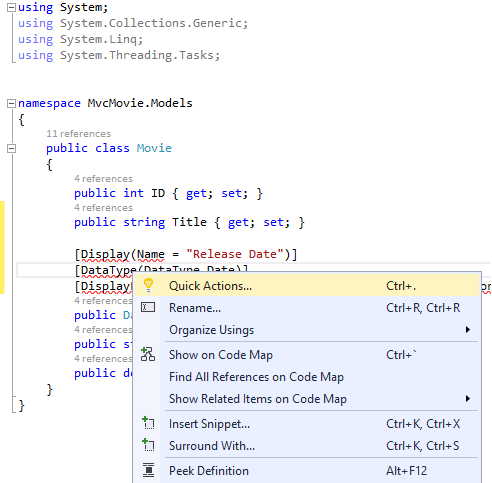
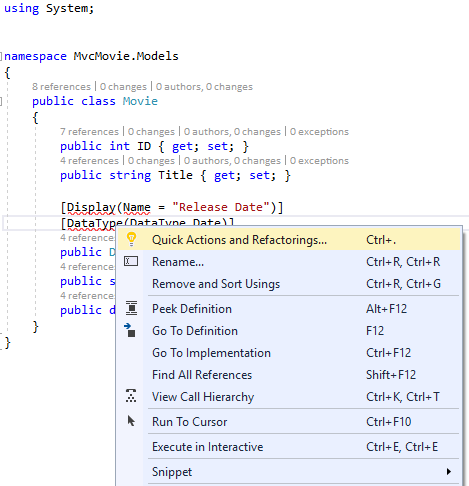
controller methods and views

Changed region(s): [[0.0, 0.1553, 1.0, 1.0], [0.0, 0.0, 0.5075, 0.1553], [0.0597, 0.6522, 0.0896, 0.6832]]

diff --git a/aspnetcore/tutorials/first-mvc-app/start-mvc/sample/MvcMovie/Views/Shared/edit_view_source.html b/aspnetcore/tutorials/first-mvc-app/start-mvc/sample/MvcMovie/Views/Shared/edit_view_source.html
@@ -1,0 +1,29 @@
+<form action="/Movies/Edit/7" method="post">
+    <div class="form-horizontal">
+        <h4>Movie</h4>
+        <hr />
+        <div class="text-danger" />
+        <input type="hidden" data-val="true" data-val-required="The ID field is required." id="ID" name="ID" value="7" />
+        <div class="form-group">
+            <label class="control-label col-md-2" for="Genre" />
+            <div class="col-md-10">
+                <input class="form-control" type="text" id="Genre" name="Genre" value="Western" />
+                <span class="text-danger field-validation-valid" data-valmsg-for="Genre" data-valmsg-replace="true"></span>
+            </div>
+        </div>
+        <div class="form-group">
+            <label class="control-label col-md-2" for="Price" />
+            <div class="col-md-10">
+                <input class="form-control" type="text" data-val="true" data-val-number="The field Price must be a number." data-val-required="The Price field is required." id="Price" name="Price" value="3.99" />
+                <span class="text-danger field-validation-valid" data-valmsg-for="Price" data-valmsg-replace="true"></span>
+            </div>
+        </div>
+        <!-- Markup removed for brevity -->
+        <div class="form-group">
+            <div class="col-md-offset-2 col-md-10">
+                <input type="submit" value="Save" class="btn btn-default" />
+            </div>
+        </div>
+    </div>
+    <input name="__RequestVerificationToken" type="hidden" value="CfDJ8Inyxgp63fRFqUePGvuI5jGZsloJu1L7X9le1gy7NCIlSduCRx9jDQClrV9pOTTmqUyXnJBXhmrjcUVDJyDUMm7-MF_9rK8aAZdRdlOri7FmKVkRe_2v5LIHGKFcTjPrWPYnc9AdSbomkiOSaTEg7RU" />
+</form>

diff --git a/aspnetcore/tutorials/first-mvc-app/start-mvc/sample/MvcMovie/Controllers/MC1.cs b/aspnetcore/tutorials/first-mvc-app/start-mvc/sample/MvcMovie/Controllers/MC1.cs
@@ -11,7 +11,7 @@ using MvcMovie.Models;
 
 namespace MvcMovie.Controllers
 {
-    #region snippet_1
+#region snippet_1
     public class MoviesController : Controller
     {
         private readonly MvcMovieContext _context;
@@ -20,14 +20,14 @@ namespace MvcMovie.Controllers
         {
             _context = context;
         }
-        #endregion
-        #region snippet_index
+#endregion
+#region snippet_index
         // GET: Movies
         public async Task<IActionResult> Index()
         {
             return View(await _context.Movie.ToListAsync());
         }
-        #endregion
+#endregion
 
         // GET: Movies/Details/5
         public async Task<IActionResult> Details(int? id)
@@ -69,6 +69,7 @@ namespace MvcMovie.Controllers
             return View(movie);
         }
 
+#region snippet_edit1
         // GET: Movies/Edit/5
         public async Task<IActionResult> Edit(int? id)
         {
@@ -84,7 +85,8 @@ namespace MvcMovie.Controllers
             }
             return View(movie);
         }
-
+#endregion
+#region snippet_edit2
         // POST: Movies/Edit/5
         // To protect from overposting attacks, please enable the specific properties you want to bind to, for 
         // more details see http://go.microsoft.com/fwlink/?LinkId=317598.
@@ -119,7 +121,7 @@ namespace MvcMovie.Controllers
             }
             return View(movie);
         }
-
+#endregion
         // GET: Movies/Delete/5
         public async Task<IActionResult> Delete(int? id)
         {

diff --git a/aspnetcore/tutorials/first-mvc-app/start-mvc/sample/MvcMovie/Models/MovieNoEF.cs b/aspnetcore/tutorials/first-mvc-app/start-mvc/sample/MvcMovie/Models/MovieNoEF.cs
@@ -1,4 +1,4 @@
-#define MovieNoEF
+//#define MovieNoEF
 #if MovieNoEF
 #region snippet_1
 using System;

diff --git a/aspnetcore/tutorials/first-mvc-app/start-mvc/sample/MvcMovie/Models/MovieDate.cs b/aspnetcore/tutorials/first-mvc-app/start-mvc/sample/MvcMovie/Models/MovieDate.cs
@@ -1,4 +1,4 @@
-//#define AddDate 
+#define AddDate 
 #if AddDate
 #region snippet_1
 using System;

diff --git a/aspnetcore/tutorials/first-mvc-app/start-mvc/sample2/src/MvcMovie/Models/Class.cs b/aspnetcore/tutorials/first-mvc-app/start-mvc/sample2/src/MvcMovie/Models/Class.cs
@@ -1,0 +1,7 @@
+namespace MvcMovie.Models
+{
+    public class XClass
+    {
+        int x;
+    }
+}

diff --git a/aspnetcore/tutorials/first-mvc-app/controller-methods-views.md b/aspnetcore/tutorials/first-mvc-app/controller-methods-views.md
@@ -1,17 +1,18 @@
 ---
 title: Controller methods and views | Microsoft Docs
 author: rick-anderson
-description: 
+description: Working with controller methods, views and DataAnnotations
 keywords: ASP.NET Core,
 ms.author: riande
 manager: wpickett
-ms.date: 10/14/2016
+ms.date: 03/07/2017
 ms.topic: article
 ms.assetid: c7313211-b271-4adf-bab8-8e72603cc0ce
 ms.technology: aspnet
 ms.prod: aspnet-core
 uid: tutorials/first-mvc-app/controller-methods-views
 ---
+
 # Controller methods and views
 
 By [Rick Anderson](https://twitter.com/RickAndMSFT)
@@ -22,32 +23,31 @@ We have a good start to the movie app, but the presentation is not ideal. We don
 
 Open the *Models/Movie.cs* file and add the highlighted lines shown below:
 
-[!code-csharp[Main](./start-mvc/sample2/src/MvcMovie/Models/MovieDate.cs?highlight=11,12&range=4-20)]
+<!-- next update, create MovieDateWithExtraUsings that has all the using we remove
+in the next step 
+-->
+[!code-csharp[Main](start-mvc/sample/MvcMovie/Models/MovieDate.cs?name=snippet_1&highlight=11-12)]
 
-* Right click on a red squiggly line **> Quick Actions**.
+Right click on a red squiggly line **> Quick Actions and Refactorings**.
 
-  ![Contextual menu](controller-methods-views/_static/qa.png)
+  ![Contextual menu shows **> Quick Actions and Refactorings**.](controller-methods-views/_static/qa.png)
 
-  > [!Note]
-  > In Visual Studio 2017 RC 2, the menu command is **> Quick Actions and Refactorings**.
 
-* Tap `using System.ComponentModel.DataAnnotations;`
+Tap `using System.ComponentModel.DataAnnotations;`
 
-  ![Contextual menu](controller-methods-views/_static/da.png)
+  ![using System.ComponentModel.DataAnnotations at top of list](controller-methods-views/_static/da.png)
 
   Visual studio adds `using System.ComponentModel.DataAnnotations;`.
 
-Let's remove the `using` statements that are not needed. They show up by default in a light grey font. Right click anywhere in the *Movie.cs* file **> Organize Usings > Remove Unnecessary Usings**.
+Let's remove the `using` statements that are not needed. They show up by default in a light grey font. Right click anywhere in the *Movie.cs* file **> Remove and Sort Usings**.
 
-![Contextual menu](controller-methods-views/_static/rm.png)
-
-**Visual Studio 2017 RC 2 note:** This step isn't necessary. Unneeded `using` statements were automatically removed.
+![Remove and Sort Usings](controller-methods-views/_static/rm.png)
 
 The updated code:
 
-[!code-csharp[Main](./start-mvc/sample2/src/MvcMovie/Models/MovieDate.cs?highlight=11,12&range=4-20)]
+[!code-csharp[Main](./start-mvc/sample/MvcMovie/Models/MovieDate.cs?name=snippet_1)]
 
-We'll cover [DataAnnotations](http://msdn.microsoft.com/en-us/library/system.componentmodel.dataannotations.aspx) in the next tutorial. The [Display](https://msdn.microsoft.com/en-us/library/system.componentmodel.dataannotations.displayattribute.aspx) attribute specifies what to display for the name of a field (in this case "Release Date" instead of "ReleaseDate"). The [DataType](https://msdn.microsoft.com/en-us/library/system.componentmodel.dataannotations.datatypeattribute.aspx) attribute specifies the type of the data, in this case it's a date, so the time information stored in the field is not displayed.
+We'll cover [DataAnnotations](http://msdn.microsoft.com/en-us/library/system.componentmodel.dataannotations.aspx) in the next tutorial. The [Display](https://msdn.microsoft.com/en-us/library/system.componentmodel.dataannotations.displayattribute.aspx) attribute specifies what to display for the name of a field (in this case "Release Date" instead of "ReleaseDate"). The [DataType](https://msdn.microsoft.com/en-us/library/system.componentmodel.dataannotations.datatypeattribute.aspx) attribute specifies the type of the data (Date), so the time information stored in the field is not displayed.
 
 Browse to the `Movies` controller and hold the mouse pointer over an **Edit** link to see the target URL.
 
@@ -55,73 +55,71 @@ Browse to the `Movies` controller and hold the mouse pointer over an **Edit** li
 
 The **Edit**, **Details**, and **Delete** links are generated by the MVC Core Anchor Tag Helper in the *Views/Movies/Index.cshtml* file.
 
-[!code-HTML[Main](../../tutorials/first-mvc-app/start-mvc/sample2/src/MvcMovie/Views/Movies/IndexOriginal.cshtml?highlight=2,3,4&range=46-50)]
+[!code-HTML[Main](start-mvc/sample/MvcMovie/Views/Movies/IndexOriginal.cshtml?highlight=1-3&range=46-50)]
 
-[Tag Helpers](../../mvc/views/tag-helpers/intro.md) enable server-side code to participate in creating and rendering HTML elements in Razor files. In the code above, the `AnchorTagHelper` dynamically generates the HTML `href` attribute value from the controller action method and route id. You use **View Source** from your favorite browser or use the **F12** tools to examine the generated markup. The **F12** tools are shown below.
+[Tag Helpers](xref:mvc/views/tag-helpers/intro) enable server-side code to participate in creating and rendering HTML elements in Razor files. In the code above, the `AnchorTagHelper` dynamically generates the HTML `href` attribute value from the controller action method and route id. You use **View Source** from your favorite browser or use the **F12** tools to examine the generated markup. The **F12** tools are shown below.
 
 ![DOM Explorer of Developer Tools in Microsoft Edge showing href attribute values that were generated by the Anchor Tag Helper for the Edit, Details, and Delete links](controller-methods-views/_static/f12.png)
 
-Recall the format for routing set in the *Startup.cs* file.
+Recall the format for [routing](xref:mvc/controllers/routing) set in the *Startup.cs* file:
 
-[!code-csharp[Main](./start-mvc/sample2/src/MvcMovie/Startup.cs?highlight=5&range=79-84)]
+[!code-csharp[Main](start-mvc/sample/MvcMovie/Startup.cs?name=snippet_1&highlight=5)]
 
 ASP.NET Core translates `http://localhost:1234/Movies/Edit/4` into a request to the `Edit` action method of the `Movies` controller with the parameter `Id` of 4. (Controller methods are also known as action methods.)
 
-[Tag Helpers](../../mvc/views/tag-helpers/index.md) are one of the most popular new features in ASP.NET Core. See [Additional resources](#additional-resources) for more information.
+[Tag Helpers](xref:mvc/views/tag-helpers/intro) are one of the most popular new features in ASP.NET Core. See [Additional resources](#additional-resources) for more information.
 
-Open the `Movies` controller and examine the two `Edit` action methods:
+Open the `Movies` controller and examine the two `Edit` action methods. The following code shows the `HTTP GET Edit` method, which fetchs the movie and populates the edit form generated by the *Edit.cshtml* Razor file.
 
-![Movies controller showing the Edit action method that takes an optional id parameter](controller-methods-views/_static/1.png)
+[!code-csharp[Main](start-mvc/sample/MvcMovie/Controllers/MC1.cs?name=snippet_edit1)]
 
-[!code-csharp[Main](start-mvc/sample2/src/MvcMovie/Controllers/MoviesController.cs?range=78-92)]
+The following code shows the `HTTP POST Edit` method, which proccess the posted movie values:
 
-This method will be updated after we add a rating (add it to the bind).
+[!code-csharp[Main](start-mvc/sample/MvcMovie/Controllers/MC1.cs?name=snippet_edit2)]
 
-[!code-csharp[Main](start-mvc/sample2/src/MvcMovie/Controllers/MoviesController.cs?range=101-131)]
-
-The `[Bind]` attribute is one way to protect against [over-posting](http://www.asp.net/mvc/overview/getting-started/getting-started-with-ef-using-mvc/implementing-basic-crud-functionality-with-the-entity-framework-in-asp-net-mvc-application#overpost). You should only include properties in the `[Bind]` attribute that you want to change. See [Protect your controller from over-posting](http://www.asp.net/mvc/overview/getting-started/getting-started-with-ef-using-mvc/implementing-basic-crud-functionality-with-the-entity-framework-in-asp-net-mvc-application#overpost) for more information. [ViewModels](http://rachelappel.com/use-viewmodels-to-manage-data-amp-organize-code-in-asp-net-mvc-applications/) provide an alternative approach to prevent over-posting.
+The `[Bind]` attribute is one way to protect against [over-posting](https://docs.microsoft.com/aspnet/mvc/overview/getting-started/getting-started-with-ef-using-mvc/implementing-basic-crud-functionality-with-the-entity-framework-in-asp-net-mvc-application#overpost). You should only include properties in the `[Bind]` attribute that you want to change. See [Protect your controller from over-posting](http://www.asp.net/mvc/overview/getting-started/getting-started-with-ef-using-mvc/implementing-basic-crud-functionality-with-the-entity-framework-in-asp-net-mvc-application#overpost) for more information. [ViewModels](http://rachelappel.com/use-viewmodels-to-manage-data-amp-organize-code-in-asp-net-mvc-applications/) provide an alternative approach to prevent over-posting.
 
 Notice the second `Edit` action method is preceded by the `[HttpPost]` attribute.
 
-[!code-csharp[Main](start-mvc/sample2/src/MvcMovie/Controllers/MoviesController.cs?range=101-131&highlight=1)]
+[!code-csharp[Main](start-mvc/sample/MvcMovie/Controllers/MC1.cs?name=snippet_edit2&highlight=4)]
 
 The `HttpPostAttribute` attribute specifies that this `Edit` method can be invoked *only* for `POST` requests. You could apply the `[HttpGet]` attribute to the first edit method, but that's not necessary because `[HttpGet]` is the default.
 
-The `ValidateAntiForgeryTokenAttribute` attribute is used to prevent forgery of a request and is paired up with an anti-forgery token generated in the edit view file (*Views/Movies/Edit.cshtml*). The edit view file generates the anti-forgery token with the [Form Tag Helper](../../mvc/views/working-with-forms.md).
+The `ValidateAntiForgeryTokenAttribute` attribute is used to [prevent forgery of a request](xref:security/anti-request-forgery) and is paired up with an anti-forgery token generated in the edit view file (*Views/Movies/Edit.cshtml*). The edit view file generates the anti-forgery token with the [Form Tag Helper](xref:mvc/views/working-with-forms).
 
-[!code-HTML[Main](start-mvc/sample2/src/MvcMovie/Views/Movies/Edit.cshtml?range=9)]
+[!code-HTML[Main](start-mvc/sample/MvcMovie/Views/Movies/Edit.cshtml?range=9)]
 
-The [Form Tag Helper](../../mvc/views/working-with-forms.md) generates a hidden anti-forgery token that must match the `[ValidateAntiForgeryToken]` generated anti-forgery token in the `Edit` method of the Movies controller. For more information, see [🔧 Anti-Request Forgery](../../security/anti-request-forgery.md).
+The [Form Tag Helper](xref:mvc/views/working-with-forms) generates a hidden anti-forgery token that must match the `[ValidateAntiForgeryToken]` generated anti-forgery token in the `Edit` method of the Movies controller. For more information, see [Anti-Request Forgery](xref:security/anti-request-forgery).
 
 The `HttpGet Edit` method takes the movie `ID` parameter, looks up the movie using the Entity Framework `SingleOrDefaultAsync` method, and returns the selected movie to the Edit view. If a movie cannot be found, `NotFound` (HTTP 404) is returned.
 
-[!code-csharp[Main](start-mvc/sample2/src/MvcMovie/Controllers/MoviesController.cs?range=78-92)]
+[!code-csharp[Main](start-mvc/sample/MvcMovie/Controllers/MC1.cs?name=snippet_edit1)]
 
 When the scaffolding system created the Edit view, it examined the `Movie` class and created code to render `<label>` and `<input>` elements for each property of the class. The following example shows the Edit view that was generated by the Visual Studio scaffolding system:
 
-[!code-HTML[Main](../../tutorials/first-mvc-app/start-mvc/sample2/src/MvcMovie/Views/Movies/EditCopy.cshtml?highlight=1)]
+[!code-HTML[Main](start-mvc/sample/MvcMovie/Views/Movies/EditCopy.cshtml?highlight=1)]
 
-Notice how the view template has a `@model MvcMovie.Models.Movie` statement at the top of the file — this specifies that the view expects the model for the view template to be of type `Movie`.
+Notice how the view template has a `@model MvcMovie.Models.Movie` statement at the top of the file. `@model MvcMovie.Models.Movie` specifies that the view expects the model for the view template to be of type `Movie`.
 
-The scaffolded code uses several Tag Helper methods to streamline the HTML markup. The - [Label Tag Helper](../../mvc/views/working-with-forms.md) displays the name of the field ("Title", "ReleaseDate", "Genre", or "Price"). The [Input Tag Helper](../../mvc/views/working-with-forms.md) renders an HTML `<input>` element. The [Validation Tag Helper](../../mvc/views/working-with-forms.md) displays any validation messages associated with that property.
+The scaffolded code uses several Tag Helper methods to streamline the HTML markup. The - [Label Tag Helper](xref:mvc/views/working-with-forms) displays the name of the field ("Title", "ReleaseDate", "Genre", or "Price"). The [Input Tag Helper](xref:mvc/views/working-with-forms) renders an HTML `<input>` element. The [Validation Tag Helper](xref:mvc/views/working-with-forms) displays any validation messages associated with that property.
 
 Run the application and navigate to the `/Movies` URL. Click an **Edit** link. In the browser, view the source for the page. The generated HTML for the `<form>` element is shown below.
 
-[!code-HTML[Main](../../tutorials/first-mvc-app/start-mvc/sample2/src/MvcMovie/Views/Shared/edit_view_source.html?highlight=1,6,10,17,24,28)]
+[!code-HTML[Main](start-mvc/sample/MvcMovie/Views/Shared/edit_view_source.html?highlight=1,6,10,17,24,28)]
 
-The `<input>` elements are in an `HTML <form>` element whose `action` attribute is set to post to the `/Movies/Edit/id` URL. The form data will be posted to the server when the `Save` button is clicked. The last line before the closing `</form>` element shows the hidden [XSRF](../../security/anti-request-forgery.md) token generated by the [Form Tag Helper](../../mvc/views/working-with-forms.md).
+The `<input>` elements are in an `HTML <form>` element whose `action` attribute is set to post to the `/Movies/Edit/id` URL. The form data will be posted to the server when the `Save` button is clicked. The last line before the closing `</form>` element shows the hidden [XSRF](xref:security/anti-request-forgery) token generated by the [Form Tag Helper](xref:mvc/views/working-with-forms).
 
 ## Processing the POST Request
 
 The following listing shows the `[HttpPost]` version of the `Edit` action method.
 
-[!code-csharp[Main](./start-mvc/sample2/src/MvcMovie/Controllers/MoviesController.cs?highlight=1,2,10,14,15,28&range=101-131)]
+[!code-csharp[Main](start-mvc/sample/MvcMovie/Controllers/MC1.cs?name=snippet_edit2)]
 
-The `[ValidateAntiForgeryToken]` attribute validates the hidden [XSRF](../../security/anti-request-forgery.md) token generated by the anti-forgery token generator in the [Form Tag Helper](../../mvc/views/working-with-forms.md)
+The `[ValidateAntiForgeryToken]` attribute validates the hidden [XSRF](xref:security/anti-request-forgery) token generated by the anti-forgery token generator in the [Form Tag Helper](xref:mvc/views/working-with-forms)
 
-The [model binding](../../mvc/models/model-binding.md) system takes the posted form values and creates a `Movie` object that's passed as the `movie` parameter. The `ModelState.IsValid` method verifies that the data submitted in the form can be used to modify (edit or update) a `Movie` object. If the data is valid it's saved. The updated (edited) movie data is saved to the database by calling the `SaveChangesAsync` method of database context. After saving the data, the code redirects the user to the `Index` action method of the `MoviesController` class, which displays the movie collection, including the changes just made.
+The [model binding](xref:mvc/models/model-binding) system takes the posted form values and creates a `Movie` object that's passed as the `movie` parameter. The `ModelState.IsValid` method verifies that the data submitted in the form can be used to modify (edit or update) a `Movie` object. If the data is valid it's saved. The updated (edited) movie data is saved to the database by calling the `SaveChangesAsync` method of database context. After saving the data, the code redirects the user to the `Index` action method of the `MoviesController` class, which displays the movie collection, including the changes just made.
 
-Before the form is posted to the server, client side validation checks any validation rules on the fields. If there are any validation errors, an error message is displayed and the form is not posted. If JavaScript is disabled, you won't have client side validation but the server will detect the posted values that are not valid, and the form values will be redisplayed with error messages. Later in the tutorial we examine [Model Validation](../../mvc/models/validation.md) validation in more detail. The [Validation Tag Helper](../../mvc/views/working-with-forms.md) in the *Views/Movies/Edit.cshtml* view template takes care of displaying appropriate error messages.
+Before the form is posted to the server, client side validation checks any validation rules on the fields. If there are any validation errors, an error message is displayed and the form is not posted. If JavaScript is disabled, you won't have client side validation but the server will detect the posted values that are not valid, and the form values will be redisplayed with error messages. Later in the tutorial we examine [Model Validation](xref:mvc/models/validation) in more detail. The [Validation Tag Helper](xref:mvc/views/working-with-forms) in the *Views/Movies/Edit.cshtml* view template takes care of displaying appropriate error messages.
 
 ![Edit view: An exception for an incorrect Price value of abc states that The field Price must be a number. An exception for an incorrect Release Date value of xyz states Please enter a valid date.](controller-methods-views/_static/val.png)
 
@@ -129,23 +127,23 @@ All the `HttpGet` methods in the movie controller follow a similar pattern. They
 
 ## Additional resources
 
-* [Globalization and localization](../../fundamentals/localization.md)
+* [Globalization and localization](xref:fundamentals/localization)
 
-* [Introduction to Tag Helpers](../../mvc/views/tag-helpers/intro.md)
+* [Introduction to Tag Helpers](xref:mvc/views/tag-helpers/intro)
 
-* [Authoring Tag Helpers](../../mvc/views/tag-helpers/authoring.md)
+* [Authoring Tag Helpers](xref:mvc/views/tag-helpers/authoring)
 
-* [🔧 Anti-Request Forgery](../../security/anti-request-forgery.md)
+* [🔧 Anti-Request Forgery](xref:security/anti-request-forgery)
 
 * Protect your controller from [over-posting](http://www.asp.net/mvc/overview/getting-started/getting-started-with-ef-using-mvc/implementing-basic-crud-functionality-with-the-entity-framework-in-asp-net-mvc-application#overpost)
 
 * [ViewModels](http://rachelappel.com/use-viewmodels-to-manage-data-amp-organize-code-in-asp-net-mvc-applications/)
 
-* [Form Tag Helper](../../mvc/views/working-with-forms.md)
-* [Input Tag Helper](../../mvc/views/working-with-forms.md)
-* [Label Tag Helper](../../mvc/views/working-with-forms.md)
-* [Select Tag Helper](../../mvc/views/working-with-forms.md)
-* [Validation Tag Helper](../../mvc/views/working-with-forms.md)
+* [Form Tag Helper](xref:mvc/views/working-with-forms)
+* [Input Tag Helper](xref:mvc/views/working-with-forms)
+* [Label Tag Helper](xref:mvc/views/working-with-forms)
+* [Select Tag Helper](xref:mvc/views/working-with-forms)
+* [Validation Tag Helper](xref:mvc/views/working-with-forms)
 
 >[!div class="step-by-step"]
 [Previous](working-with-sql.md)

diff --git a/aspnetcore/tutorials/first-mvc-app/adding-model.md b/aspnetcore/tutorials/first-mvc-app/adding-model.md
@@ -26,6 +26,7 @@ In Solution Explorer, right click the **MvcMovie** project > **Add** > **New Fol
 
 In Solution Explorer, right click the *Models* folder > **Add** > **Class**. Name the class **Movie** and add the following properties:
 
+[!code-csharp[Main](start-mvc/sample/MvcMovie/Startup.cs?name=snippet_cs&highlight=6-8)]
 [!code-csharp[Main](start-mvc/sample/MvcMovie/Models/MovieNoEF.cs?name=snippet_1&highlight=7)]
 
 In addition to the properties you'd expect to model a movie, the `ID` field is required by the DB for the primary key. Build the project. If you don't build the app, you'll get an error in the next section. We've finally added a **M**odel to our **M**VC app.

diff --git a/aspnetcore/tutorials/first-mvc-app/start-mvc.md b/aspnetcore/tutorials/first-mvc-app/start-mvc.md
@@ -5,7 +5,7 @@ description: Getting started with ASP.NET Core MVC and Visual Studio
 keywords: ASP.NET Core, MVC
 ms.author: riande
 manager: wpickett
-ms.date: 02/24/2017
+ms.date: 03/07/2017
 ms.topic: article
 ms.assetid: 1d18b589-e3fd-4dc6-bde6-fb0f41998d78
 ms.technology: aspnet
